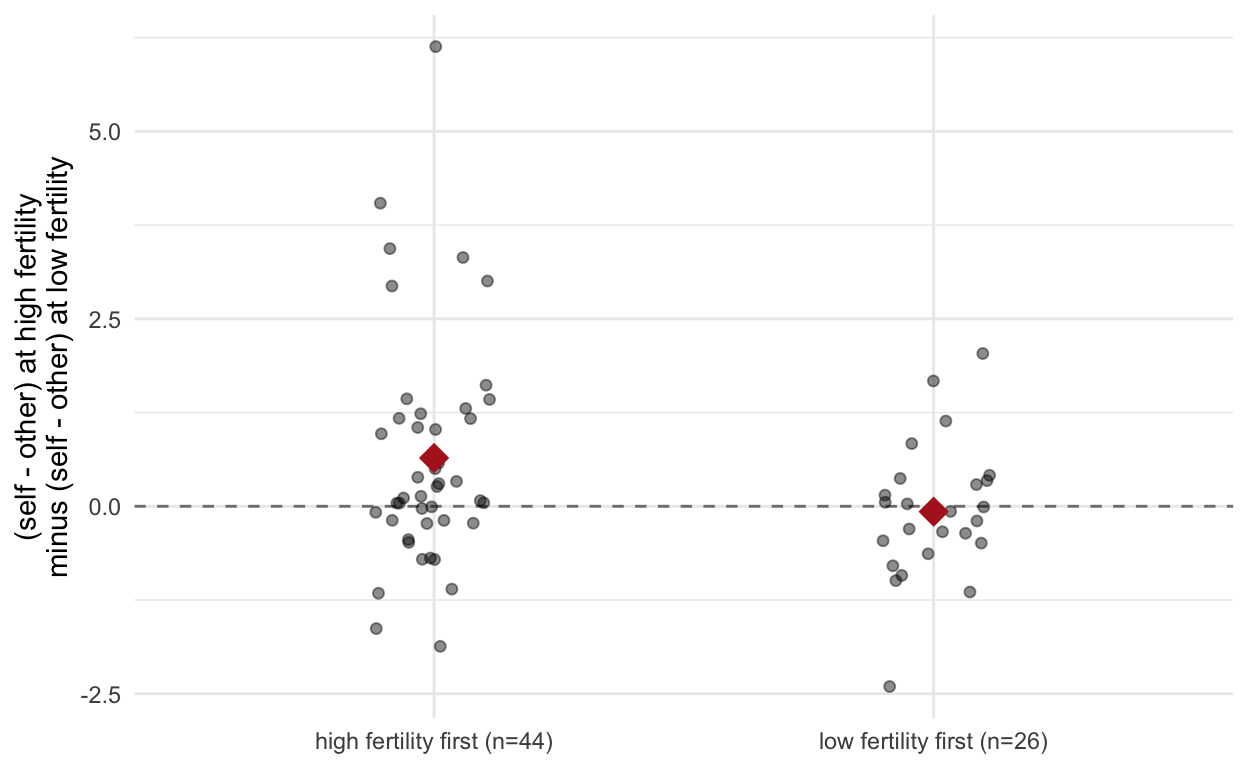
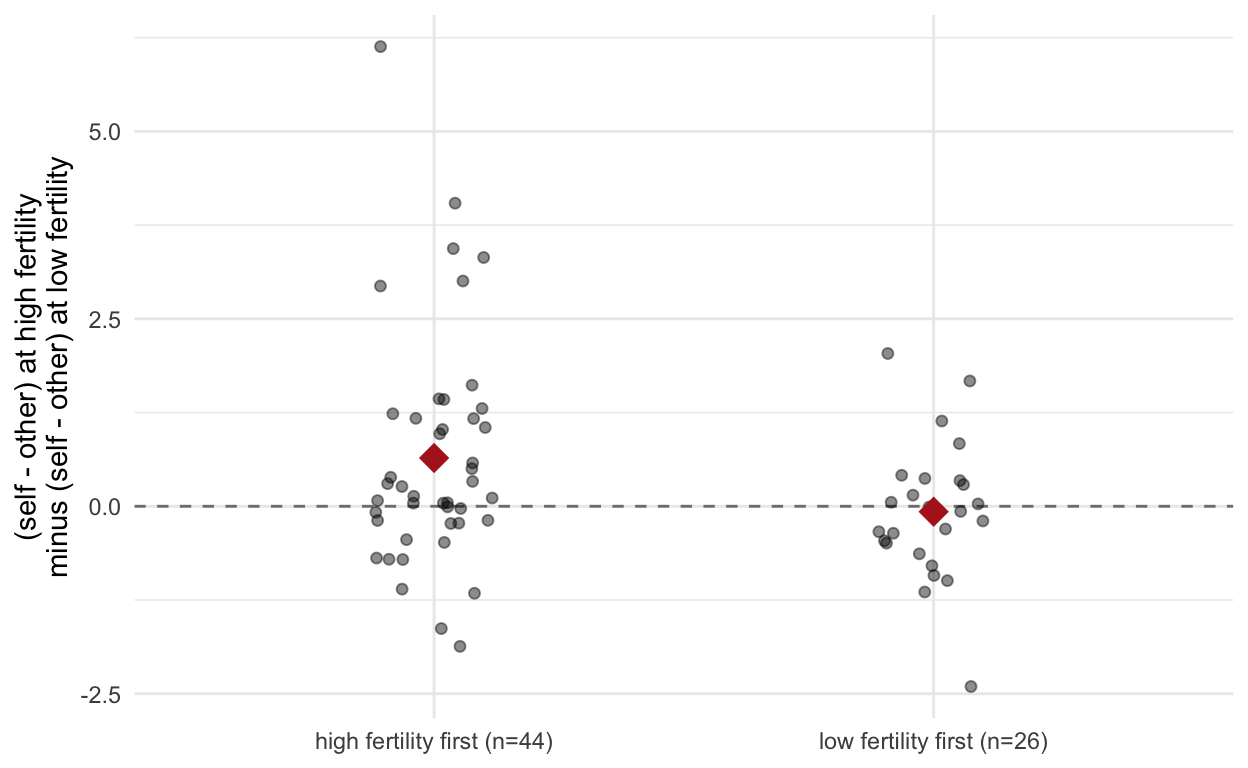
HIBAR fertility post: edits, rerender
Claude-Session: https://claude.ai/code/session_01QB5en1d2h5MmZbRRdCMwAw

diff --git a/_posts/2026-09-11-hibar-fertility-and-conspicuous-consumption/hibar-fertility-and-conspicuous-consumption.html b/_posts/2026-09-11-hibar-fertility-and-conspicuous-consumption/hibar-fertility-and-conspicuous-consumption.html
@@ -1598,7 +1598,7 @@ code span.wa { color: #5e5e5e; font-style: italic; } /* Warning */
 <h1 id="severe-errors-in-fertility-increases-womens-desire-for-conspicuous-luxury">Severe errors in <a href="https://doi.org/10.1371/journal.pone.0354126">“Fertility increases women’s desire for conspicuous luxury”</a></h1>
 <p>A paper by Kim, Durante, Laran, Nikiforidis, &amp; Griskevicius (2026, PLoS One).</p>
 <p>A journalist just asked me for my opinion on this recent publication. The paper reports “that ovulation—the time of peak fertility—increases women’s desire to purchase conspicuous luxury goods”. Having worked on the topic of menstrual cycle research for a few years now, I was skeptical of these results. I fed the paper into Claude Opus 5 and had it look for some of the problems I typically see in menstrual cycle research (poor fertility measurement, poor hormone measures, small samples, uncorrected multiple testing) as well as errors. I also attached the data, which the authors, to their credit, shared on OSF.</p>
-<p>Claude found a lot of errors. The paper has three studies. The studies are poorly designed if the goal is to have a realistic chance of finding non-sexuality-related psychological effects of being ovulatory. They ignore or misrepresent several recommendations that Gangestad, I, and others have made to improve such studies. More worryingly, all of these seem to have severe errors, ranging from basic statistical mistakes to citations that don’t back up claims. Once corrected, there is no support for the title claims. I verified two claims myself (the incorrect ANOVA in Study 1 and the incorrectly pooled SEs in Study 2). These two consequential mistakes already cross the threshold where I would urgently recommend the authors correct the paper, so I didn’t see the need to go deeper. However, they are just the tip of the iceberg and several other consequential errors were found and look plausible to me. Given the scope and number of errors, including unfixable design problems, a retraction might be warranted.</p>
+<p>Claude found a lot of errors. The paper has three studies. The studies are poorly designed if the goal is to have a realistic chance of finding non-sexuality-related psychological effects of being ovulatory. They ignore or misrepresent several recommendations that Gangestad, I, and others have made to improve such studies. More worryingly, all of these seem to have severe errors, ranging from basic statistical mistakes to citations that don’t back up claims. Once corrected, there is no support for the title claims. I verified two claims myself (the incorrect ANOVA in Study 1 and the incorrectly pooled SEs in Study 2). These two consequential mistakes already cross the threshold where I would urgently recommend the authors correct the paper, so I didn’t see the need to go deeper. However, they are just the tip of the iceberg and several other consequential errors were found and look plausible to me. Given the scope and number of errors, including unfixable design problems, a retraction might be warranted. Mistakes happen (<a href="https://rubenarslan.github.io/mistakes.html">including to me, frequently</a>), what matters is swiftly correcting the scientific record, hence this post.</p>
 <p>What follows is Claude Opus 5 output with minor rewriting from me. I then had Claude Fable 5.1 re-run every analysis below against the posted data, read the AsPredicted entry and the abstracts of the two key methodological citations, and adjust the text where a claim was overstated or its consequences were unclear. One claim that was technically true but inconsequential (the paper’s “low fertility” prediction point lies 0.0015 below a conception probability of zero) was dropped from the list of errors.</p>
 <div class="layout-chunk" data-layout="l-body">
 <div class="sourceCode">
@@ -2306,7 +2306,7 @@ lends it to the luxury cells, where the hypotheses live.</p>
 <span><span class='va'>labs2</span>  <span class='op'>&lt;-</span> <span class='fu'><a href='https://rdrr.io/r/base/c.html'>c</a></span><span class='op'>(</span><span class='st'>"luxury / public"</span>, <span class='st'>"luxury / private"</span>, <span class='st'>"nonluxury / public"</span>, <span class='st'>"nonluxury / private"</span><span class='op'>)</span></span>
 <span></span>
 <span><span class='va'>pooled</span> <span class='op'>&lt;-</span> <span class='fu'><a href='https://rdrr.io/r/base/t.html'>t</a></span><span class='op'>(</span><span class='fu'><a href='https://rdrr.io/r/base/lapply.html'>sapply</a></span><span class='op'>(</span><span class='va'>cells2</span>, <span class='kw'>function</span><span class='op'>(</span><span class='va'>x</span><span class='op'>)</span> <span class='fu'>slope</span><span class='op'>(</span><span class='va'>m2</span>, <span class='va'>x</span><span class='op'>[</span><span class='fl'>1</span><span class='op'>]</span>, <span class='va'>x</span><span class='op'>[</span><span class='fl'>2</span><span class='op'>]</span>, <span class='fu'><a href='https://rdrr.io/r/stats/vcov.html'>vcov</a></span><span class='op'>(</span><span class='va'>m2</span><span class='op'>)</span><span class='op'>)</span><span class='op'>)</span><span class='op'>)</span></span>
-<span><span class='va'>robust</span> <span class='op'>&lt;-</span> <span class='fu'><a href='https://rdrr.io/r/base/t.html'>t</a></span><span class='op'>(</span><span class='fu'><a href='https://rdrr.io/r/base/lapply.html'>sapply</a></span><span class='op'>(</span><span class='va'>cells2</span>, <span class='kw'>function</span><span class='op'>(</span><span class='va'>x</span><span class='op'>)</span> <span class='fu'>slope</span><span class='op'>(</span><span class='va'>m2</span>, <span class='va'>x</span><span class='op'>[</span><span class='fl'>1</span><span class='op'>]</span>, <span class='va'>x</span><span class='op'>[</span><span class='fl'>2</span><span class='op'>]</span>, <span class='fu'><a href='https://sandwich.R-Forge.R-project.org/reference/vcovHC.html'>vcovHC</a></span><span class='op'>(</span><span class='va'>m2</span>, type <span class='op'>=</span> <span class='st'>"HC3"</span><span class='op'>)</span><span class='op'>)</span><span class='op'>)</span><span class='op'>)</span></span>
+<span><span class='va'>robust</span> <span class='op'>&lt;-</span> <span class='fu'><a href='https://rdrr.io/r/base/t.html'>t</a></span><span class='op'>(</span><span class='fu'><a href='https://rdrr.io/r/base/lapply.html'>sapply</a></span><span class='op'>(</span><span class='va'>cells2</span>, <span class='kw'>function</span><span class='op'>(</span><span class='va'>x</span><span class='op'>)</span> <span class='fu'>slope</span><span class='op'>(</span><span class='va'>m2</span>, <span class='va'>x</span><span class='op'>[</span><span class='fl'>1</span><span class='op'>]</span>, <span class='va'>x</span><span class='op'>[</span><span class='fl'>2</span><span class='op'>]</span>, <span class='fu'><a href='https://rdrr.io/pkg/sandwich/man/vcovHC.html'>vcovHC</a></span><span class='op'>(</span><span class='va'>m2</span>, type <span class='op'>=</span> <span class='st'>"HC3"</span><span class='op'>)</span><span class='op'>)</span><span class='op'>)</span><span class='op'>)</span></span>
 <span><span class='va'>percell</span> <span class='op'>&lt;-</span> <span class='fu'><a href='https://rdrr.io/r/base/t.html'>t</a></span><span class='op'>(</span><span class='fu'><a href='https://rdrr.io/r/base/lapply.html'>sapply</a></span><span class='op'>(</span><span class='va'>cells2</span>, <span class='kw'>function</span><span class='op'>(</span><span class='va'>x</span><span class='op'>)</span> <span class='op'>{</span></span>
 <span>  <span class='va'>d</span> <span class='op'>&lt;-</span> <span class='va'>s2</span><span class='op'>[</span><span class='va'>s2</span><span class='op'>$</span><span class='va'>BrandType</span> <span class='op'>==</span> <span class='va'>x</span><span class='op'>[</span><span class='fl'>1</span><span class='op'>]</span> <span class='op'>&amp;</span> <span class='va'>s2</span><span class='op'>$</span><span class='va'>Setting</span> <span class='op'>==</span> <span class='va'>x</span><span class='op'>[</span><span class='fl'>2</span><span class='op'>]</span>, <span class='op'>]</span></span>
 <span>  <span class='va'>cf</span> <span class='op'>&lt;-</span> <span class='fu'><a href='https://rdrr.io/r/base/unname.html'>unname</a></span><span class='op'>(</span><span class='fu'><a href='https://rdrr.io/r/base/summary.html'>summary</a></span><span class='op'>(</span><span class='fu'><a href='https://rdrr.io/r/stats/lm.html'>lm</a></span><span class='op'>(</span><span class='va'>DV</span> <span class='op'>~</span> <span class='va'>IVc</span>, data <span class='op'>=</span> <span class='va'>d</span><span class='op'>)</span><span class='op'>)</span><span class='op'>$</span><span class='va'>coefficients</span><span class='op'>[</span><span class='fl'>2</span>, <span class='op'>]</span><span class='op'>)</span></span>
@@ -2381,7 +2381,7 @@ lends it to the luxury cells, where the hypotheses live.</p>
 </tbody>
 </table>
 <div class="sourceCode">
-<pre class="sourceCode r"><code class="sourceCode r"><span><span class='va'>V3</span> <span class='op'>&lt;-</span> <span class='fu'><a href='https://sandwich.R-Forge.R-project.org/reference/vcovHC.html'>vcovHC</a></span><span class='op'>(</span><span class='va'>m2</span>, type <span class='op'>=</span> <span class='st'>"HC3"</span><span class='op'>)</span></span>
+<pre class="sourceCode r"><code class="sourceCode r"><span><span class='va'>V3</span> <span class='op'>&lt;-</span> <span class='fu'><a href='https://rdrr.io/pkg/sandwich/man/vcovHC.html'>vcovHC</a></span><span class='op'>(</span><span class='va'>m2</span>, type <span class='op'>=</span> <span class='st'>"HC3"</span><span class='op'>)</span></span>
 <span><span class='va'>ixs</span> <span class='op'>&lt;-</span> <span class='fu'><a href='https://rdrr.io/r/base/c.html'>c</a></span><span class='op'>(</span><span class='st'>"IVc:Setting"</span>, <span class='st'>"IVc:BrandType:Setting"</span><span class='op'>)</span></span>
 <span><span class='fu'><a href='https://rdrr.io/pkg/knitr/man/kable.html'>kable</a></span><span class='op'>(</span><span class='fu'><a href='https://rdrr.io/r/base/data.frame.html'>data.frame</a></span><span class='op'>(</span>term <span class='op'>=</span> <span class='va'>ixs</span>, b <span class='op'>=</span> <span class='fu'><a href='https://rdrr.io/r/base/Round.html'>round</a></span><span class='op'>(</span><span class='fu'><a href='https://rdrr.io/r/stats/coef.html'>coef</a></span><span class='op'>(</span><span class='va'>m2</span><span class='op'>)</span><span class='op'>[</span><span class='va'>ixs</span><span class='op'>]</span>, <span class='fl'>2</span><span class='op'>)</span>,</span>
 <span>                 `p (pooled)` <span class='op'>=</span> <span class='fu'>fmt_p</span><span class='op'>(</span><span class='fu'><a href='https://rdrr.io/r/base/summary.html'>summary</a></span><span class='op'>(</span><span class='va'>m2</span><span class='op'>)</span><span class='op'>$</span><span class='va'>coefficients</span><span class='op'>[</span><span class='va'>ixs</span>, <span class='fl'>4</span><span class='op'>]</span><span class='op'>)</span>,</span>

diff --git a/posts/2026-09-11-hibar-fertility-and-conspicuous-consumption/index.html b/posts/2026-09-11-hibar-fertility-and-conspicuous-consumption/index.html
@@ -2277,7 +2277,7 @@ gtag('config', 'UA-2102103-6');
 <h1 id="severe-errors-in-fertility-increases-womens-desire-for-conspicuous-luxury">Severe errors in <a href="https://doi.org/10.1371/journal.pone.0354126">“Fertility increases women’s desire for conspicuous luxury”</a></h1>
 <p>A paper by Kim, Durante, Laran, Nikiforidis, &amp; Griskevicius (2026, PLoS One).</p>
 <p>A journalist just asked me for my opinion on this recent publication. The paper reports “that ovulation—the time of peak fertility—increases women’s desire to purchase conspicuous luxury goods”. Having worked on the topic of menstrual cycle research for a few years now, I was skeptical of these results. I fed the paper into Claude Opus 5 and had it look for some of the problems I typically see in menstrual cycle research (poor fertility measurement, poor hormone measures, small samples, uncorrected multiple testing) as well as errors. I also attached the data, which the authors, to their credit, shared on OSF.</p>
-<p>Claude found a lot of errors. The paper has three studies. The studies are poorly designed if the goal is to have a realistic chance of finding non-sexuality-related psychological effects of being ovulatory. They ignore or misrepresent several recommendations that Gangestad, I, and others have made to improve such studies. More worryingly, all of these seem to have severe errors, ranging from basic statistical mistakes to citations that don’t back up claims. Once corrected, there is no support for the title claims. I verified two claims myself (the incorrect ANOVA in Study 1 and the incorrectly pooled SEs in Study 2). These two consequential mistakes already cross the threshold where I would urgently recommend the authors correct the paper, so I didn’t see the need to go deeper. However, they are just the tip of the iceberg and several other consequential errors were found and look plausible to me. Given the scope and number of errors, including unfixable design problems, a retraction might be warranted.</p>
+<p>Claude found a lot of errors. The paper has three studies. The studies are poorly designed if the goal is to have a realistic chance of finding non-sexuality-related psychological effects of being ovulatory. They ignore or misrepresent several recommendations that Gangestad, I, and others have made to improve such studies. More worryingly, all of these seem to have severe errors, ranging from basic statistical mistakes to citations that don’t back up claims. Once corrected, there is no support for the title claims. I verified two claims myself (the incorrect ANOVA in Study 1 and the incorrectly pooled SEs in Study 2). These two consequential mistakes already cross the threshold where I would urgently recommend the authors correct the paper, so I didn’t see the need to go deeper. However, they are just the tip of the iceberg and several other consequential errors were found and look plausible to me. Given the scope and number of errors, including unfixable design problems, a retraction might be warranted. Mistakes happen (<a href="https://rubenarslan.github.io/mistakes.html">including to me, frequently</a>), what matters is swiftly correcting the scientific record, hence this post.</p>
 <p>What follows is Claude Opus 5 output with minor rewriting from me. I then had Claude Fable 5.1 re-run every analysis below against the posted data, read the AsPredicted entry and the abstracts of the two key methodological citations, and adjust the text where a claim was overstated or its consequences were unclear. One claim that was technically true but inconsequential (the paper’s “low fertility” prediction point lies 0.0015 below a conception probability of zero) was dropped from the list of errors.</p>
 <div class="layout-chunk" data-layout="l-body">
 <div class="sourceCode">
@@ -2985,7 +2985,7 @@ lends it to the luxury cells, where the hypotheses live.</p>
 <span><span class='va'>labs2</span>  <span class='op'>&lt;-</span> <span class='fu'><a href='https://rdrr.io/r/base/c.html'>c</a></span><span class='op'>(</span><span class='st'>"luxury / public"</span>, <span class='st'>"luxury / private"</span>, <span class='st'>"nonluxury / public"</span>, <span class='st'>"nonluxury / private"</span><span class='op'>)</span></span>
 <span></span>
 <span><span class='va'>pooled</span> <span class='op'>&lt;-</span> <span class='fu'><a href='https://rdrr.io/r/base/t.html'>t</a></span><span class='op'>(</span><span class='fu'><a href='https://rdrr.io/r/base/lapply.html'>sapply</a></span><span class='op'>(</span><span class='va'>cells2</span>, <span class='kw'>function</span><span class='op'>(</span><span class='va'>x</span><span class='op'>)</span> <span class='fu'>slope</span><span class='op'>(</span><span class='va'>m2</span>, <span class='va'>x</span><span class='op'>[</span><span class='fl'>1</span><span class='op'>]</span>, <span class='va'>x</span><span class='op'>[</span><span class='fl'>2</span><span class='op'>]</span>, <span class='fu'><a href='https://rdrr.io/r/stats/vcov.html'>vcov</a></span><span class='op'>(</span><span class='va'>m2</span><span class='op'>)</span><span class='op'>)</span><span class='op'>)</span><span class='op'>)</span></span>
-<span><span class='va'>robust</span> <span class='op'>&lt;-</span> <span class='fu'><a href='https://rdrr.io/r/base/t.html'>t</a></span><span class='op'>(</span><span class='fu'><a href='https://rdrr.io/r/base/lapply.html'>sapply</a></span><span class='op'>(</span><span class='va'>cells2</span>, <span class='kw'>function</span><span class='op'>(</span><span class='va'>x</span><span class='op'>)</span> <span class='fu'>slope</span><span class='op'>(</span><span class='va'>m2</span>, <span class='va'>x</span><span class='op'>[</span><span class='fl'>1</span><span class='op'>]</span>, <span class='va'>x</span><span class='op'>[</span><span class='fl'>2</span><span class='op'>]</span>, <span class='fu'><a href='https://sandwich.R-Forge.R-project.org/reference/vcovHC.html'>vcovHC</a></span><span class='op'>(</span><span class='va'>m2</span>, type <span class='op'>=</span> <span class='st'>"HC3"</span><span class='op'>)</span><span class='op'>)</span><span class='op'>)</span><span class='op'>)</span></span>
+<span><span class='va'>robust</span> <span class='op'>&lt;-</span> <span class='fu'><a href='https://rdrr.io/r/base/t.html'>t</a></span><span class='op'>(</span><span class='fu'><a href='https://rdrr.io/r/base/lapply.html'>sapply</a></span><span class='op'>(</span><span class='va'>cells2</span>, <span class='kw'>function</span><span class='op'>(</span><span class='va'>x</span><span class='op'>)</span> <span class='fu'>slope</span><span class='op'>(</span><span class='va'>m2</span>, <span class='va'>x</span><span class='op'>[</span><span class='fl'>1</span><span class='op'>]</span>, <span class='va'>x</span><span class='op'>[</span><span class='fl'>2</span><span class='op'>]</span>, <span class='fu'><a href='https://rdrr.io/pkg/sandwich/man/vcovHC.html'>vcovHC</a></span><span class='op'>(</span><span class='va'>m2</span>, type <span class='op'>=</span> <span class='st'>"HC3"</span><span class='op'>)</span><span class='op'>)</span><span class='op'>)</span><span class='op'>)</span></span>
 <span><span class='va'>percell</span> <span class='op'>&lt;-</span> <span class='fu'><a href='https://rdrr.io/r/base/t.html'>t</a></span><span class='op'>(</span><span class='fu'><a href='https://rdrr.io/r/base/lapply.html'>sapply</a></span><span class='op'>(</span><span class='va'>cells2</span>, <span class='kw'>function</span><span class='op'>(</span><span class='va'>x</span><span class='op'>)</span> <span class='op'>{</span></span>
 <span>  <span class='va'>d</span> <span class='op'>&lt;-</span> <span class='va'>s2</span><span class='op'>[</span><span class='va'>s2</span><span class='op'>$</span><span class='va'>BrandType</span> <span class='op'>==</span> <span class='va'>x</span><span class='op'>[</span><span class='fl'>1</span><span class='op'>]</span> <span class='op'>&amp;</span> <span class='va'>s2</span><span class='op'>$</span><span class='va'>Setting</span> <span class='op'>==</span> <span class='va'>x</span><span class='op'>[</span><span class='fl'>2</span><span class='op'>]</span>, <span class='op'>]</span></span>
 <span>  <span class='va'>cf</span> <span class='op'>&lt;-</span> <span class='fu'><a href='https://rdrr.io/r/base/unname.html'>unname</a></span><span class='op'>(</span><span class='fu'><a href='https://rdrr.io/r/base/summary.html'>summary</a></span><span class='op'>(</span><span class='fu'><a href='https://rdrr.io/r/stats/lm.html'>lm</a></span><span class='op'>(</span><span class='va'>DV</span> <span class='op'>~</span> <span class='va'>IVc</span>, data <span class='op'>=</span> <span class='va'>d</span><span class='op'>)</span><span class='op'>)</span><span class='op'>$</span><span class='va'>coefficients</span><span class='op'>[</span><span class='fl'>2</span>, <span class='op'>]</span><span class='op'>)</span></span>
@@ -3060,7 +3060,7 @@ lends it to the luxury cells, where the hypotheses live.</p>
 </tbody>
 </table>
 <div class="sourceCode">
-<pre class="sourceCode r"><code class="sourceCode r"><span><span class='va'>V3</span> <span class='op'>&lt;-</span> <span class='fu'><a href='https://sandwich.R-Forge.R-project.org/reference/vcovHC.html'>vcovHC</a></span><span class='op'>(</span><span class='va'>m2</span>, type <span class='op'>=</span> <span class='st'>"HC3"</span><span class='op'>)</span></span>
+<pre class="sourceCode r"><code class="sourceCode r"><span><span class='va'>V3</span> <span class='op'>&lt;-</span> <span class='fu'><a href='https://rdrr.io/pkg/sandwich/man/vcovHC.html'>vcovHC</a></span><span class='op'>(</span><span class='va'>m2</span>, type <span class='op'>=</span> <span class='st'>"HC3"</span><span class='op'>)</span></span>
 <span><span class='va'>ixs</span> <span class='op'>&lt;-</span> <span class='fu'><a href='https://rdrr.io/r/base/c.html'>c</a></span><span class='op'>(</span><span class='st'>"IVc:Setting"</span>, <span class='st'>"IVc:BrandType:Setting"</span><span class='op'>)</span></span>
 <span><span class='fu'><a href='https://rdrr.io/pkg/knitr/man/kable.html'>kable</a></span><span class='op'>(</span><span class='fu'><a href='https://rdrr.io/r/base/data.frame.html'>data.frame</a></span><span class='op'>(</span>term <span class='op'>=</span> <span class='va'>ixs</span>, b <span class='op'>=</span> <span class='fu'><a href='https://rdrr.io/r/base/Round.html'>round</a></span><span class='op'>(</span><span class='fu'><a href='https://rdrr.io/r/stats/coef.html'>coef</a></span><span class='op'>(</span><span class='va'>m2</span><span class='op'>)</span><span class='op'>[</span><span class='va'>ixs</span><span class='op'>]</span>, <span class='fl'>2</span><span class='op'>)</span>,</span>
 <span>                 `p (pooled)` <span class='op'>=</span> <span class='fu'>fmt_p</span><span class='op'>(</span><span class='fu'><a href='https://rdrr.io/r/base/summary.html'>summary</a></span><span class='op'>(</span><span class='va'>m2</span><span class='op'>)</span><span class='op'>$</span><span class='va'>coefficients</span><span class='op'>[</span><span class='va'>ixs</span>, <span class='fl'>4</span><span class='op'>]</span><span class='op'>)</span>,</span>
